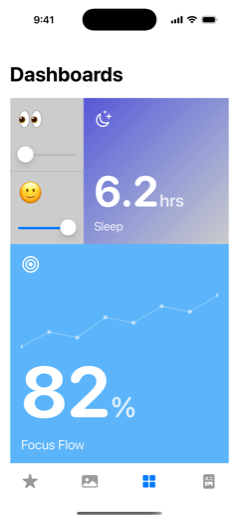
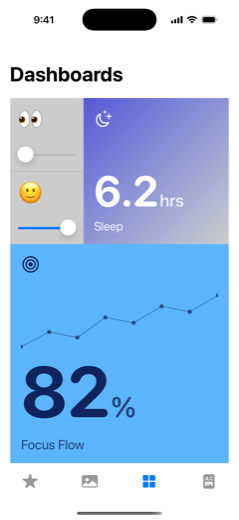
docs(examples): dark ink on Focus Flow tile for contrast on day-sky blue
The Focus Flow tile keeps the day-sky-blue fill but rendered its white
stat text and plot with very low contrast. Add a deep navy ink (Palette
.focusInk) and an optional `ink` override on stat()/FocusPlot so the
icon, value, label, and trend line stay legible on the light fill.
Addresses the Codex P2 on PR #8. Docs-only — no release.

diff --git a/Examples/iOS/Sources/BentoDashboardView.swift b/Examples/iOS/Sources/BentoDashboardView.swift
@@ -23,16 +23,17 @@ struct BentoDashboardView: View {
         }
     }
 
-    // ordinal 0 — hero, 5×, dull blue with an abstract data plot behind the stat
+    // ordinal 0 — hero, 5×, day-sky blue with an abstract data plot behind the stat.
+    // Text + plot use a deep navy ink so they stay legible on the light fill.
     private var focusTile: some View {
         stat(icon: "target", value: "82", unit: "%", label: "Focus Flow",
-             valueSize: base * 5, labelFont: .title2, onDark: true)
+             valueSize: base * 5, labelFont: .title2, onDark: true, ink: Palette.focusInk)
             .frame(maxWidth: .infinity, maxHeight: .infinity, alignment: .topLeading)
             .background {
                 ZStack(alignment: .top) {
                     Palette.daySkyBlue
                     GeometryReader { geo in
-                        FocusPlot()
+                        FocusPlot(tint: Palette.focusInk)
                             .frame(height: max(80, geo.size.height * 0.42))
                             .padding(.horizontal, 18)
                             .padding(.top, 52)
@@ -71,13 +72,18 @@ struct BentoDashboardView: View {
             }
     }
 
+    // `ink` overrides the foreground (icon/value/label) for tiles whose fill needs
+    // a custom text colour — e.g. dark ink on the light day-sky-blue Focus tile.
     private func stat(icon: String, value: String, unit: String, label: String,
                       valueSize: CGFloat, labelFont: Font, onDark: Bool,
-                      tint: Color = .primary) -> some View {
-        VStack(alignment: .leading, spacing: 4) {
+                      ink: Color? = nil, tint: Color = .primary) -> some View {
+        let primaryFg = ink ?? (onDark ? Color.white : Color.primary)
+        let iconFg = ink ?? (onDark ? Color.white : tint)
+        let labelFg = ink?.opacity(0.8) ?? (onDark ? Color.white.opacity(0.9) : Color.secondary)
+        return VStack(alignment: .leading, spacing: 4) {
             Image(systemName: icon)
                 .font(valueSize >= base * 3 ? .title : .title3)
-                .foregroundStyle(onDark ? Color.white : tint)
+                .foregroundStyle(iconFg)
             Spacer(minLength: 0)
             HStack(alignment: .firstTextBaseline, spacing: 2) {
                 Text(value).font(.system(size: valueSize, weight: .bold, design: .rounded))
@@ -88,9 +94,9 @@ struct BentoDashboardView: View {
             .minimumScaleFactor(0.4)
             .lineLimit(1)
             Text(label).font(labelFont)
-                .foregroundStyle(onDark ? Color.white.opacity(0.9) : Color.secondary)
+                .foregroundStyle(labelFg)
         }
-        .foregroundStyle(onDark ? Color.white : Color.primary)
+        .foregroundStyle(primaryFg)
         .padding(onDark ? 18 : 14)
     }
 }
@@ -121,6 +127,7 @@ private struct EmojiSliderTile: View {
 /// Abstract data plot — a faint scatter + trend line, as if the Focus tile is
 /// reading some correlated signal. Decorative; the points aren't real data.
 private struct FocusPlot: View {
+    var tint: Color = .white
     private let ys: [CGFloat] = [0.78, 0.62, 0.68, 0.46, 0.52, 0.34, 0.40, 0.22]
 
     var body: some View {
@@ -130,11 +137,11 @@ private struct FocusPlot: View {
             }
             var line = Path()
             line.addLines(pts)
-            ctx.stroke(line, with: .color(.white.opacity(0.28)), lineWidth: 1.5)
+            ctx.stroke(line, with: .color(tint.opacity(0.40)), lineWidth: 1.5)
             for p in pts {
                 let r: CGFloat = 3.5
                 ctx.fill(Path(ellipseIn: CGRect(x: p.x - r, y: p.y - r, width: r * 2, height: r * 2)),
-                         with: .color(.white.opacity(0.5)))
+                         with: .color(tint.opacity(0.65)))
             }
         }
     }

diff --git a/Examples/iOS/Sources/Palette.swift b/Examples/iOS/Sources/Palette.swift
@@ -8,4 +8,6 @@ enum Palette {
     static let headlinePurple = Color.indigo
     /// The main blue of the daytime sky gradient, and the Focus Flow tile.
     static let daySkyBlue = Color(red: 0.36, green: 0.71, blue: 0.98)
+    /// Deep navy ink — readable text/plot on the light daySkyBlue Focus tile.
+    static let focusInk = Color(red: 0.06, green: 0.14, blue: 0.36)
 }
